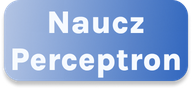
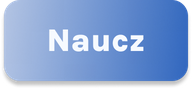
graphic changes

Changed region(s): [[0.0625, 0.1124, 0.9375, 0.8764]]

diff --git a/main.py b/main.py
@@ -231,12 +231,30 @@ canvas.create_rectangle(
     outline="")
 
 canvas.create_text(
-    345.0,
+    208.0,
     0.0,
     anchor="nw",
-    text="Perceptron",
+    text="Uczenie neuronu",
     fill="#F6F9FF",
-    font=("Noto Sans Bold", 96 * -1)
+    font=("Noto Sans", 96 * -1,  "bold")
+)
+
+canvas.create_text(
+    800.0,
+    244.0,
+    anchor="nw",
+    text="Adaline",
+    fill="#000000",
+    font=("Noto Sans", 48 * -1,  "bold")
+)
+
+canvas.create_text(
+    225.0,
+    244.0,
+    anchor="nw",
+    text="Percepton",
+    fill="#000000",
+    font=("Noto Sans", 48 * -1,  "bold")
 )
 
 button_image_1 = PhotoImage(
@@ -249,8 +267,8 @@ button_1 = Button(
     relief="flat"
 )
 button_1.place(
-    x=114.0,
-    y=174.0,
+    x=208.0,
+    y=140.0,
     width=372.0,
     height=81.0
 )
@@ -266,7 +284,7 @@ button_2 = Button(
 )
 button_2.place(
     x=414.0,
-    y=850.0,
+    y=860.0,
     width=372.0,
     height=81.0
 )
@@ -281,8 +299,8 @@ button_3 = Button(
     relief="flat"
 )
 button_3.place(
-    x=714.0,
-    y=170.0,
+    x=596.0,
+    y=140.0,
     width=184.0,
     height=81.0
 )
@@ -297,8 +315,8 @@ button_4 = Button(
     relief="flat"
 )
 button_4.place(
-    x=902.0,
-    y=170.0,
+    x=795.0,
+    y=140.0,
     width=184.0,
     height=81.0
 )
@@ -313,24 +331,8 @@ button_5 = Button(
     relief="flat"
 )
 button_5.place(
-    x=114.0,
-    y=327.0,
-    width=184.0,
-    height=81.0
-)
-
-button_image_5a = PhotoImage(
-    file=relative_to_assets("button_8.png"))
-button_5a = Button(
-    image=button_image_5a,
-    borderwidth=0,
-    highlightthickness=0,
-    command=learnOne,
-    relief="flat"
-)
-button_5a.place(
-    x=114.0,
-    y=242.0,
+    x=24.0,
+    y=244.0,
     width=184.0,
     height=81.0
 )
@@ -341,28 +343,12 @@ button_6 = Button(
     image=button_image_6,
     borderwidth=0,
     highlightthickness=0,
-    command=lambda: print("Naucz Adaline"),
+    command=learnOne_adaline,
     relief="flat"
 )
 button_6.place(
-    x=302.0,
-    y=327.0,
-    width=184.0,
-    height=81.0
-)
-
-button_image_6a = PhotoImage(
-    file=relative_to_assets("button_8.png"))
-button_6a = Button(
-    image=button_image_6a,
-    borderwidth=0,
-    highlightthickness=0,
-    command=lambda: print("ucz raz"),
-    relief="flat"
-)
-button_6a.place(
-    x=302.0,
-    y=242.0,
+    x=994.0,
+    y=339.0,
     width=184.0,
     height=81.0
 )
@@ -373,22 +359,68 @@ button_7 = Button(
     image=button_image_7,
     borderwidth=0,
     highlightthickness=0,
-    command=plot_graph,
+    command=learnOne,
     relief="flat"
 )
 button_7.place(
-    x=714.0,
-    y=327.0,
+    x=24.0,
+    y=339.0,
     width=184.0,
     height=81.0
 )
 
+button_image_8 = PhotoImage(
+    file=relative_to_assets("button_8.png"))
+button_8 = Button(
+    image=button_image_8,
+    borderwidth=0,
+    highlightthickness=0,
+    command=learn_adaline,
+    relief="flat"
+)
+button_8.place(
+    x=994.0,
+    y=239.0,
+    width=184.0,
+    height=81.0
+)
 
+button_image_9 = PhotoImage(
+    file=relative_to_assets("button_9.png"))
+button_9 = Button(
+    image=button_image_9,
+    borderwidth=0,
+    highlightthickness=0,
+    command=plot_graph,
+    relief="flat"
+)
+button_9.place(
+    x=230.0,
+    y=339.0,
+    width=184.0,
+    height=81.0
+)
+
+button_image_10 = PhotoImage(
+    file=relative_to_assets("button_10.png"))
+button_10 = Button(
+    image=button_image_10,
+    borderwidth=0,
+    highlightthickness=0,
+    command=plot_graph_adaline,
+    relief="flat"
+)
+button_10.place(
+    x=795.0,
+    y=339.0,
+    width=184.0,
+    height=81.0
+)
 
 plot_frame = tk.Frame(window)
 plot_frame.place(
     x=50.0,
-    y=410.0,
+    y=460.0,
     width=1100.0,
     height=400.0
 )
